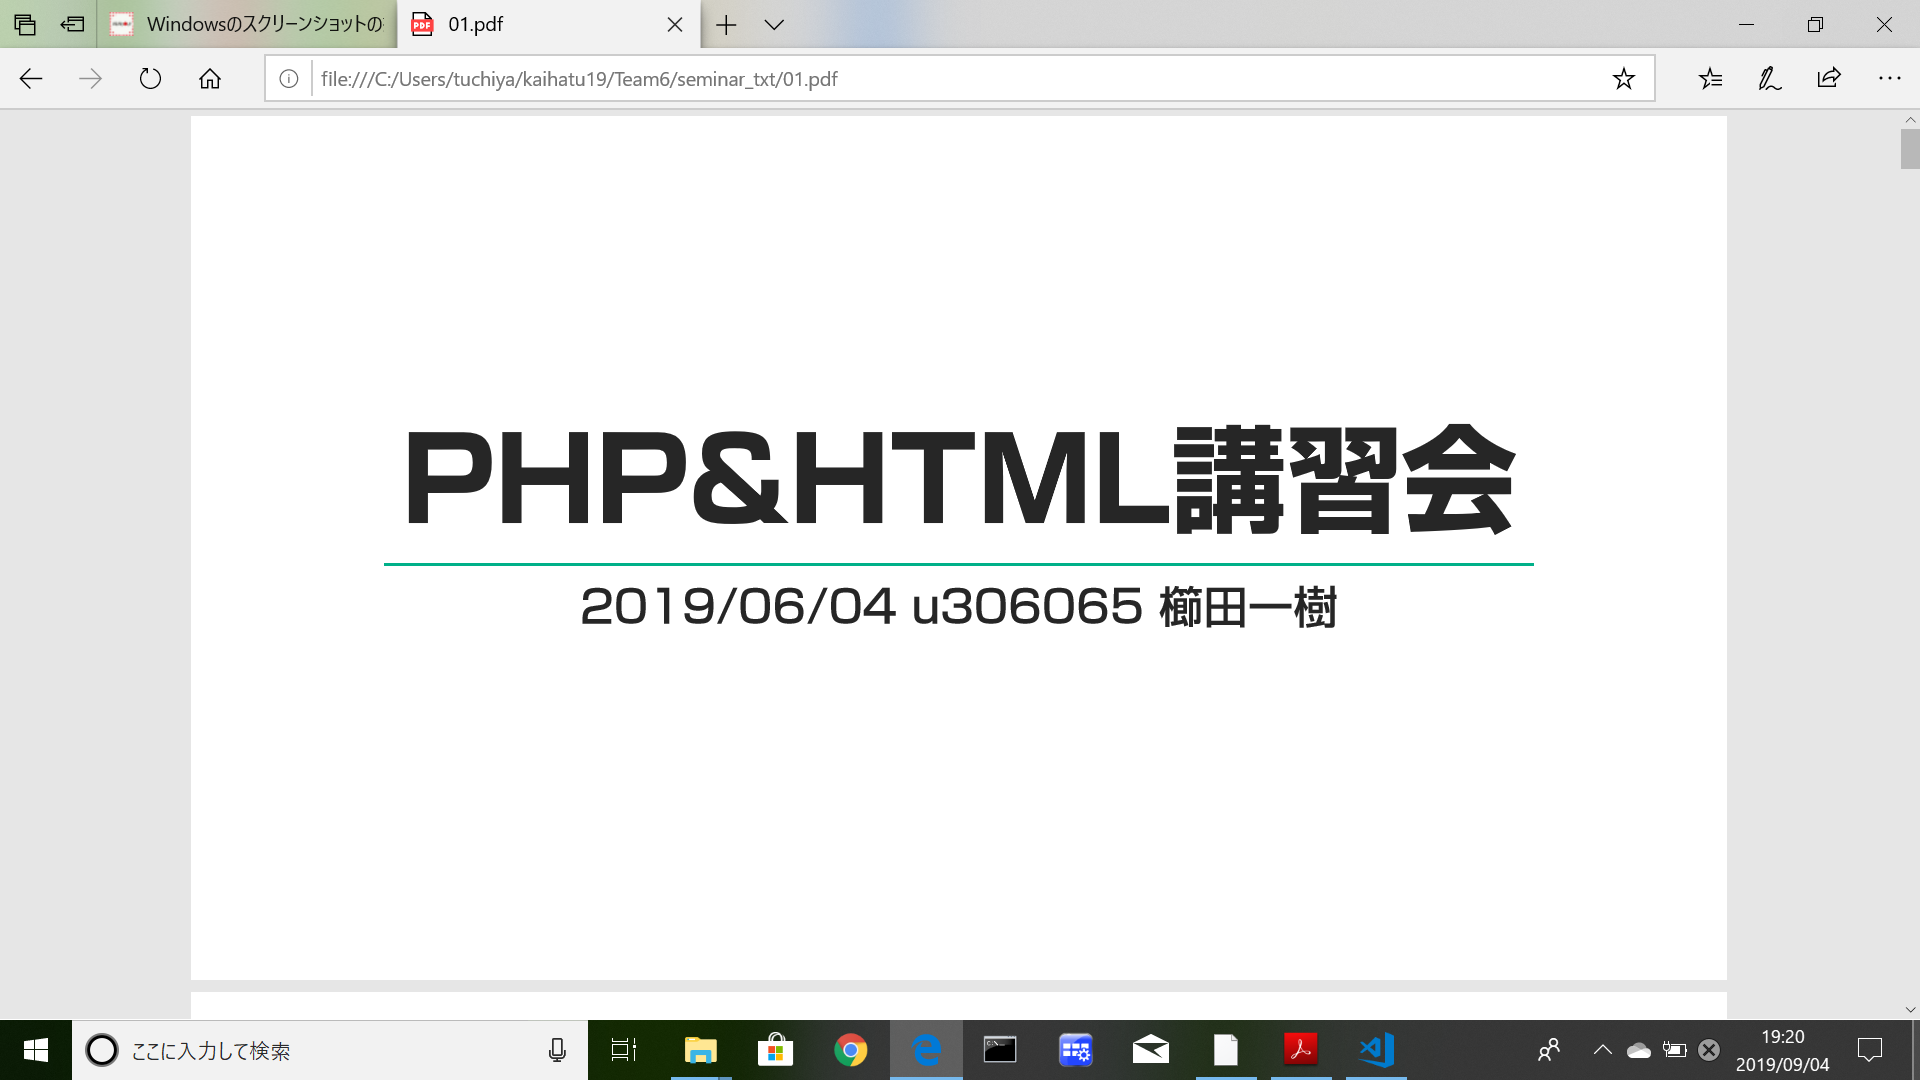
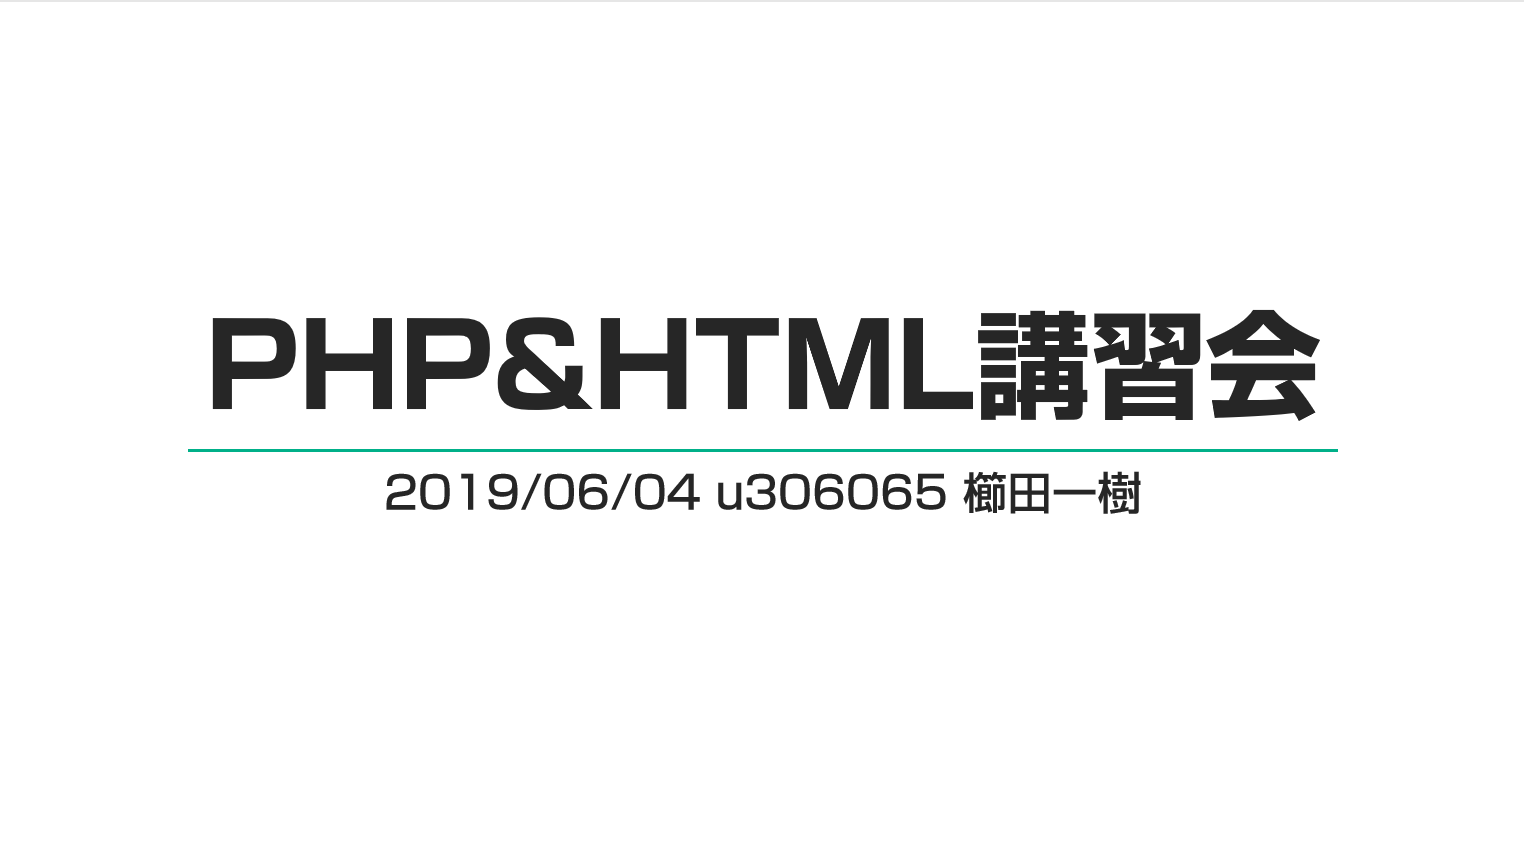
pdfファイルの表示を画像に変更しました

diff --git a/seminar.html b/seminar.html
@@ -5,7 +5,7 @@
     <meta charset="utf-8" />
 
     <link rel="stylesheet" href="./main_frame.css">
-
+<link rel="stylesheet" href="./seminar_picture.css">
     <title>講習会資料まとめ</title>
 </head>
 <body>
@@ -36,46 +36,47 @@
             <p>&nbsp;&nbsp;8月</p>
           
             <p>&nbsp;&nbsp;8/27更新</p>
-            <a href="./seminar_txt/06.pdf"><p>&nbsp;&nbsp;第6回PHP/HTML講習会~合宿事前講座　PHP編part2(データベース)~</p></a>
-            <iframe src="./seminar_txt/06.pdf" width="600" height="332" scrolling="no" marginwidth="0" marginheight="0" frameborder="0" style="border:none;"></iframe>
+            <a href="./seminar_txt/06.pdf"><p>&nbsp;&nbsp;第6回PHP/HTML講習会~合宿事前講座 PHP編part2(データベース)~</p></a>
+            <img src="./seminar_png/06.png" alt="第6回PHP/HTML講習会~合宿事前講座 PHP編part2(データベース)~" class="shasin">
             
           <p>&nbsp;&nbsp;8/15更新</p>
           <a href="./seminar_txt/05.pdf"><p>&nbsp;&nbsp;第5回PHP/HTML講習会~合宿事前講座　PHP編part1(基礎編)~</p></a>
-          <iframe src="./seminar_txt/05.pdf" width="600" height="332" scrolling="no" marginwidth="0" marginheight="0" frameborder="0" style="border:none;"></iframe>
+          <img src="./seminar_png/05.png" alt="第5回PHP/HTML講習会~合宿事前講座 PHP編part1(基礎編)~" class="shasin">
 
           <p>&nbsp;&nbsp;8/11更新</p>
           <a href="./seminar_txt/04.pdf"><p>&nbsp;&nbsp;第4回PHP/HTML講習会~合宿事前講座 JavaScript編~</p></a>
-          <iframe src="./seminar_txt/04.pdf" width="600" height="332" scrolling="no" marginwidth="0" marginheight="0" frameborder="0" style="border:none;"></iframe>
+          <img src="./seminar_png/04.png" alt="第4回PHP/HTML講習会~合宿事前講座 JavaScript編~" class="shasin">
 
           <p>&nbsp;&nbsp;7月</p>
           <p>&nbsp;&nbsp;7/23更新</p>
           <a href="./seminar_txt/UoA_NUCE_LT1(日大版).pdf"><p>&nbsp;&nbsp;UoA_NUCE_LT1(日大版)</p></a>
-                <iframe src="./seminar_txt/UoA_NUCE_LT1(日大版).pdf" width="600" height="332" scrolling="no" marginwidth="0" marginheight="0" frameborder="0" style="border:none;"></iframe>
+          <img src="./seminar_png/UoA_NUCE_LT1(日大版).png" alt="UoA_NUCE_LT1(日大版)" class="shasin">
 
                 <p>&nbsp;&nbsp;7/16更新</p>
                 <a href="./seminar_txt/第一回Git講習会.pdf"><p>&nbsp;&nbsp;第1回Git講習会</p></a>
-                <iframe src="./seminar_txt/第一回Git講習会.pdf" width="600" height="332" scrolling="no" marginwidth="0" marginheight="0" frameborder="0" style="border:none;"></iframe>
+                <img src="./seminar_png/第一回Git講習会.png" alt="第1回Git講習会" class="shasin">
 
                 <p>&nbsp;&nbsp;7/11更新</p>
                 <a href="./seminar_txt/ps001.pdf"><p>&nbsp;&nbsp;PowerShellで自動化する</p></a>
-                      <iframe src="./seminar_txt/ps001.pdf" width="600" height="332" scrolling="no" marginwidth="0" marginheight="0" frameborder="0" style="border:none;"></iframe>
+                <img src="./seminar_png/ps001.png" alt="PowerShellで自動化する" class="shasin">
 
                       <p>&nbsp;&nbsp;7/9更新</p>
                       <a href="./seminar_txt/processingをはじめよう！.pdf"><p>&nbsp;&nbsp;processingをはじめよう！</p></a>
-                            <iframe src="./seminar_txt/processingをはじめよう！.pdf" width="600" height="332" scrolling="no" marginwidth="0" marginheight="0" frameborder="0" style="border:none;"></iframe>  
+                      <img src="./seminar_png/processingをはじめよう！.png" alt="processingをはじめよう！" class="shasin">       
                                    
                 <a href="./seminar_txt/How To connpass.pdf"><p>&nbsp;&nbsp;How To connpass</p></a>
-                      <iframe src="./seminar_txt/How To connpass.pdf" width="600" height="332" scrolling="no" marginwidth="0" marginheight="0" frameborder="0" style="border:none;"></iframe>
+                <img src="./seminar_png/How To connpass.png" alt="How To connpass" class="shasin">
               
                       <a href="./seminar_txt/03.pdf"><p>&nbsp;&nbsp;第3回PHP/HTML講習会</p></a>
-                            <iframe src="./seminar_txt/03.pdf" width="600" height="332" scrolling="no" marginwidth="0" marginheight="0" frameborder="0" style="border:none;"></iframe>   
+                      <img src="./seminar_png/03.png" alt="第3回PHP/HTML講習会" class="shasin">
+                            
                             <p>&nbsp;&nbsp;7/4更新</p>
                             <a href="./seminar_txt/02.pdf"><p>&nbsp;&nbsp;第2回PHP/HTML講習会</p></a>
-                                  <iframe src="./seminar_txt/02.pdf" width="600" height="332" scrolling="no" marginwidth="0" marginheight="0" frameborder="0" style="border:none;"></iframe>
+                            <img src="./seminar_png/02.png" alt="第2回PHP/HTML講習会" class="shasin">
 
                                   <p>&nbsp;&nbsp;7/2更新</p>
           <a href="./seminar_txt/2temp.pdf"><p>&nbsp;&nbsp;Adobe XD講習会 ~XDを学ぶ前編~</p></a>
-          <iframe src="./seminar_txt/2temp.pdf" width="600" height="332" scrolling="no" marginwidth="0" marginheight="0" frameborder="0" style="border:none;"></iframe>
+          <img src="./seminar_png/2temp.png" alt="Adobe XD講習会 ~XDを学ぶ前編~" class="shasin">
                 
           <p>&nbsp;&nbsp;6月<br /></p>
           <p>&nbsp;&nbsp;5月<br /></p>
@@ -100,26 +101,26 @@
 <a href="./seminar_txt/06.pdf"><p>&nbsp;&nbsp;第6回PHP/HTML講習会<br></p></a>
 
 <a href="./seminar_txt/06.pdf"><p><br>&nbsp;&nbsp;第6回PHP/HTML講習会~合宿事前講座　PHP編part2(データベース)~</p></a>
-            <iframe src="./seminar_txt/06.pdf" width="600" height="332" scrolling="no" marginwidth="0" marginheight="0" frameborder="0" style="border:none;"></iframe>
+<img src="./seminar_png/06.png" alt="第6回PHP/HTML講習会~合宿事前講座 PHP編part2(データベース)~" class="shasin">
 
 <a href="./seminar_txt/05.pdf"><p>&nbsp;&nbsp;第5回PHP/HTML講習会~合宿事前講座　PHP編part1(基礎編)~</p></a>
-          <iframe src="./seminar_txt/05.pdf" width="600" height="332" scrolling="no" marginwidth="0" marginheight="0" frameborder="0" style="border:none;"></iframe>
+<img src="./seminar_png/05.png" alt="第5回PHP/HTML講習会~合宿事前講座 PHP編part1(基礎編)~" class="shasin">
 
           <a href="./seminar_txt/04.pdf"><p>&nbsp;&nbsp;第4回PHP/HTML講習会~合宿事前講座 JavaScript編~</p></a>
-          <iframe src="./seminar_txt/04.pdf" width="600" height="332" scrolling="no" marginwidth="0" marginheight="0" frameborder="0" style="border:none;"></iframe>
+          <img src="./seminar_png/04.png" alt="第4回PHP/HTML講習会~合宿事前講座 JavaScript編~" class="shasin">
 
           <a href="./seminar_txt/03.pdf"><p>&nbsp;&nbsp;第3回PHP/HTML講習会</p></a>
-                            <iframe src="./seminar_txt/03.pdf" width="600" height="332" scrolling="no" marginwidth="0" marginheight="0" frameborder="0" style="border:none;"></iframe>   
+          <img src="./seminar_png/03.png" alt="第3回PHP/HTML講習会" class="shasin">
 
                             <a href="./seminar_txt/02.pdf"><p>&nbsp;&nbsp;第2回PHP/HTML講習会</p></a>
-                                  <iframe src="./seminar_txt/02.pdf" width="600" height="332" scrolling="no" marginwidth="0" marginheight="0" frameborder="0" style="border:none;"></iframe>
+                            <img src="./seminar_png/02.png" alt="第2回PHP/HTML講習会" class="shasin"> 
 
 <a href="./seminar_txt/01.pdf"><p>&nbsp;&nbsp;第1回PHP/HTML講習会</p></a>
-<iframe src="./seminar_txt/01.pdf" width="600" height="332" scrolling="no" marginwidth="0" marginheight="0" frameborder="0" style="border:none;"></iframe>
+<img src="./seminar_png/01.png" alt="第1回PHP/HTML講習会" class="shasin">
 
 <p>&nbsp;Adobe XD講習会</p>
 <a href="./seminar_txt/2temp.pdf"><p>&nbsp;&nbsp;~XDを学ぶ前編~</p></a>
-<iframe src="./seminar_txt/2temp.pdf" width="600" height="332" scrolling="no" marginwidth="0" marginheight="0" frameborder="0" style="border:none;"></iframe>
+<img src="./seminar_png/2temp.png" alt="~XDを学ぶ前編~" class="shasin">
 
 
 

diff --git a/seminar_picture.css b/seminar_picture.css
@@ -1,0 +1,5 @@
+@charset "utf-8";
+img.shasin {
+    width:  600px;
+    height: auto;
+}
